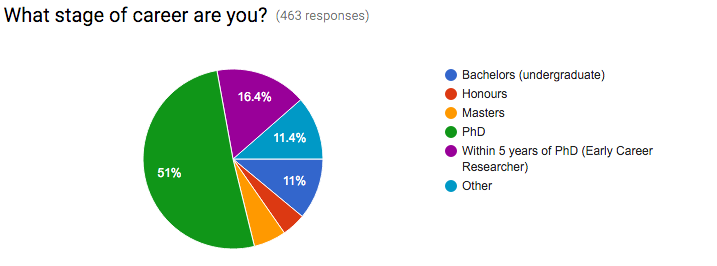
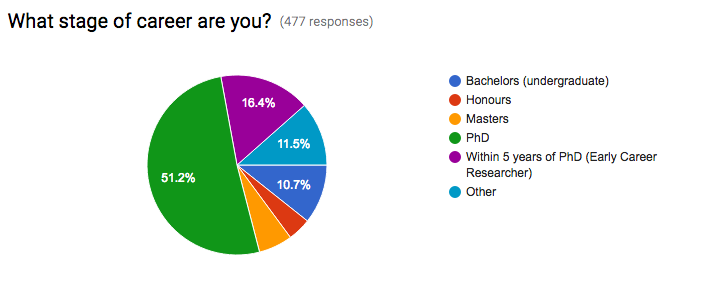
+11 to 478, updated stage pic

diff --git a/index.html b/index.html
@@ -64,6 +64,7 @@ bv<!DOCTYPE html>
 </thead>
 <tbody>
 <tr><td>Adam Haber</td><td>Computational Biology</td><td>Broad Institute</td></tr>
+<tr><td>Adam Kilpatrick</td><td>Ecology, Remote Sensing, GIS, Spatial Modelling, Remotely Piloted Aircraft Systems</td><td>The University of Adelaide</td></tr>
 <tr><td>Adele Morrison</td><td>Oceanography</td><td>Princeton University</td></tr>
 <tr><td>Alejandro Di Luca</td><td>Climate science</td><td>UNSW</td></tr>
 <tr><td>Alex Peck</td><td>Economics</td><td>Macquarie University</td></tr>
@@ -71,10 +72,12 @@ bv<!DOCTYPE html>
 <tr><td>Alexander Baldacchino</td><td>Undergraduate</td><td>UNSW</td></tr>
 <tr><td>Alexander Norton</td><td>Climate Science</td><td>University of Melbourne</td></tr>
 <tr><td>Alexandra Auhl</td><td>Ecohydrology & Environmental  Management </td><td>UNSW</td></tr>
+<tr><td>Alexis Burrett</td><td>Ecology</td><td></td></tr>
 <tr><td>Alice Barthel</td><td>Physical Oceanography</td><td>University of New South Wales</td></tr>
 <tr><td>Alice Huang</td><td>PhD</td><td>University of Sydney</td></tr>
 <tr><td>Alistair Stewart </td><td>Wildlife Ecology</td><td>Northern Territory Government </td></tr>
 <tr><td>Amelia Gontar</td><td>Mathematics</td><td>Flinders University</td></tr>
+<tr><td>Amelie Jeanneau</td><td>Remote sensing applied to erosion modelling</td><td></td></tr>
 <tr><td>Andrea Dittus</td><td>Climate Science</td><td>University of Melbourne</td></tr>
 <tr><td>Andrea Pianella</td><td>Sustainable cities</td><td>The University of Melbourne</td></tr>
 <tr><td>Andrea Taschetto</td><td>Climate variability</td><td>University of New South Wales</td></tr>
@@ -84,6 +87,7 @@ bv<!DOCTYPE html>
 <tr><td>Andrew Giles</td><td>Geosciences</td><td>Monash University</td></tr>
 <tr><td>Andrew Gunn</td><td>Physical Oceanography</td><td>The University of Tasmania</td></tr>
 <tr><td>Andrew Harford</td><td>Environmental toxicology</td><td>Department of the Environment</td></tr>
+<tr><td>Andrew Hennessy</td><td>Environmental Biology </td><td>University of Adelaide</td></tr>
 <tr><td>Andrew King</td><td>Climate science</td><td>University of Melbourne</td></tr>
 <tr><td>Andrew Prata</td><td>Satellite Remote Sensing</td><td>Monash University</td></tr>
 <tr><td>Andy Bodsworth</td><td>Sustainable Fisheries and Healthy Oceans</td><td>Private consultant </td></tr>
@@ -190,6 +194,7 @@ bv<!DOCTYPE html>
 <tr><td>Emily Kain</td><td>International Studies</td><td>University of wollongong </td></tr>
 <tr><td>Emily Ly</td><td>Finance and Economics</td><td>UNSW</td></tr>
 <tr><td>Emma Ligtermoet</td><td>Human Geography</td><td>ANU</td></tr>
+<tr><td>Emma Ly</td><td>Bachelors (undergraduate)</td><td></td></tr>
 <tr><td>Eric Darling</td><td>Business - Project Management</td><td>University of Southern Queensland</td></tr>
 <tr><td>Erica Spain </td><td>Geophysics </td><td>Institute of Marine and Antarctic Studies</td></tr>
 <tr><td>Esteban Abellan</td><td>Variability (Climate Sciences)</td><td>University of New South Wales</td></tr>
@@ -277,6 +282,7 @@ bv<!DOCTYPE html>
 <tr><td>José A. Guijarro</td><td>Climatology</td><td>AEMET</td></tr>
 <tr><td>Josephine Ward</td><td>Geology</td><td>ANU</td></tr>
 <tr><td>Joshua Larsen</td><td>Hydrology</td><td>University of Queensland</td></tr>
+<tr><td>Joshua Pandong</td><td>Wildlife Conservation</td><td></td></tr>
 <tr><td>Jozef Syktus</td><td>Global Change & Climate Science</td><td>Global Change Institute, UQ & QLD Government</td></tr>
 <tr><td>Julia Prior</td><td>software development practice, HCI</td><td>University of Technology Sydney</td></tr>
 <tr><td>Julian Ratcliffe</td><td>Materials Engineering</td><td>Monash University</td></tr>
@@ -304,6 +310,7 @@ bv<!DOCTYPE html>
 <tr><td>Kendra Luong</td><td>Honours</td><td>UNSW </td></tr>
 <tr><td>Kerry Nice</td><td>Urban climate and urban vegetation modelling</td><td>Monash University</td></tr>
 <tr><td>Khalil Cheikh-Hussein</td><td>Astrophysics</td><td>UNSW</td></tr>
+<tr><td>Kim Brinklow</td><td>Nursing</td><td></td></tr>
 <tr><td>Kim Chau Le</td><td>Microbiology</td><td>University of Sydney </td></tr>
 <tr><td>Kirsten Broadgate</td><td>Environmental tox</td><td>Environmental Consultancy</td></tr>
 <tr><td>Kit Tam</td><td>Honours</td><td>ANU</td></tr>
@@ -435,6 +442,7 @@ bv<!DOCTYPE html>
 <tr><td>Ryan Lewis</td><td>Marine Ecology</td><td>Institute of Marine and Antarctic Studies</td></tr>
 <tr><td>Ryan Shofner</td><td>Systematics and Phylogenetics</td><td>University of New South Wales</td></tr>
 <tr><td>Saamiul Bashar</td><td>Undergraduate</td><td>UNSW</td></tr>
+<tr><td>Sai Whiley</td><td>Information Technology</td><td>Queensland University of Technology</td></tr>
 <tr><td>Salim Masoumi</td><td>Earth Sciences</td><td>Australian National University</td></tr>
 <tr><td>Salini Sasidharan</td><td>Environmental Engineering</td><td>Flinders University</td></tr>
 <tr><td>Sally Watson</td><td>Geosciences</td><td>IMAS</td></tr>
@@ -479,6 +487,7 @@ bv<!DOCTYPE html>
 <tr><td>Stephanie Brodie</td><td>Marine science</td><td>University of New South Wales</td></tr>
 <tr><td>Stephanie Jacobs</td><td>Urban climate</td><td>Monash University</td></tr>
 <tr><td>Stephanie Roughley</td><td>Behavioural Neuroscience</td><td>UNSW</td></tr>
+<tr><td>Stewart Pittard</td><td>Wildlife Ecology</td><td>Charles Darwin University</td></tr>
 <tr><td>Susan Hansen</td><td>Information Technology</td><td>University of Technology Sydney</td></tr>
 <tr><td>Susie Wang</td><td>Social Psychology - Climate Change</td><td>University of Western Australia</td></tr>
 <tr><td>Swa Rath</td><td>Tertiary Education Management</td><td>UNSW</td></tr>
@@ -522,6 +531,7 @@ bv<!DOCTYPE html>
 <tr><td>Xiaoqing Wang </td><td>Power drive system </td><td>Electrical engineering </td></tr>
 <tr><td>Xihan Mu</td><td>Remote sensing</td><td></td></tr>
 <tr><td>Yacouba Yira</td><td>Hydrology</td><td>University of Bonn</td></tr>
+<tr><td>yanni jiang</td><td>Bachelors (undergraduate)</td><td>University of Melbourne </td></tr>
 <tr><td>Yaroslav Kharkov</td><td>Condensed Matter Physics</td><td>UNSW, School of Physics</td></tr>
 <tr><td>Yee-Fui Ng</td><td>Law</td><td>RMIT </td></tr>
 <tr><td>Yi Long</td><td>Immunology</td><td>BABS</td></tr>
@@ -530,6 +540,7 @@ bv<!DOCTYPE html>
 <tr><td>Yue Li</td><td>Tropical weather and climate modelling </td><td>Climate Change Research Centre, UNSW</td></tr>
 <tr><td>Yuehua Li</td><td>Ocean Models (Applied Mathematics)</td><td>UNSW</td></tr>
 <tr><td>Zahra Al-Modafer</td><td>Science - Pathology</td><td>UNSW</td></tr>
+<tr><td>Zainab Darbas</td><td>Bachelors (undergraduate)</td><td>The University of Queensland</td></tr>
 </tbody>
 </table>
 
